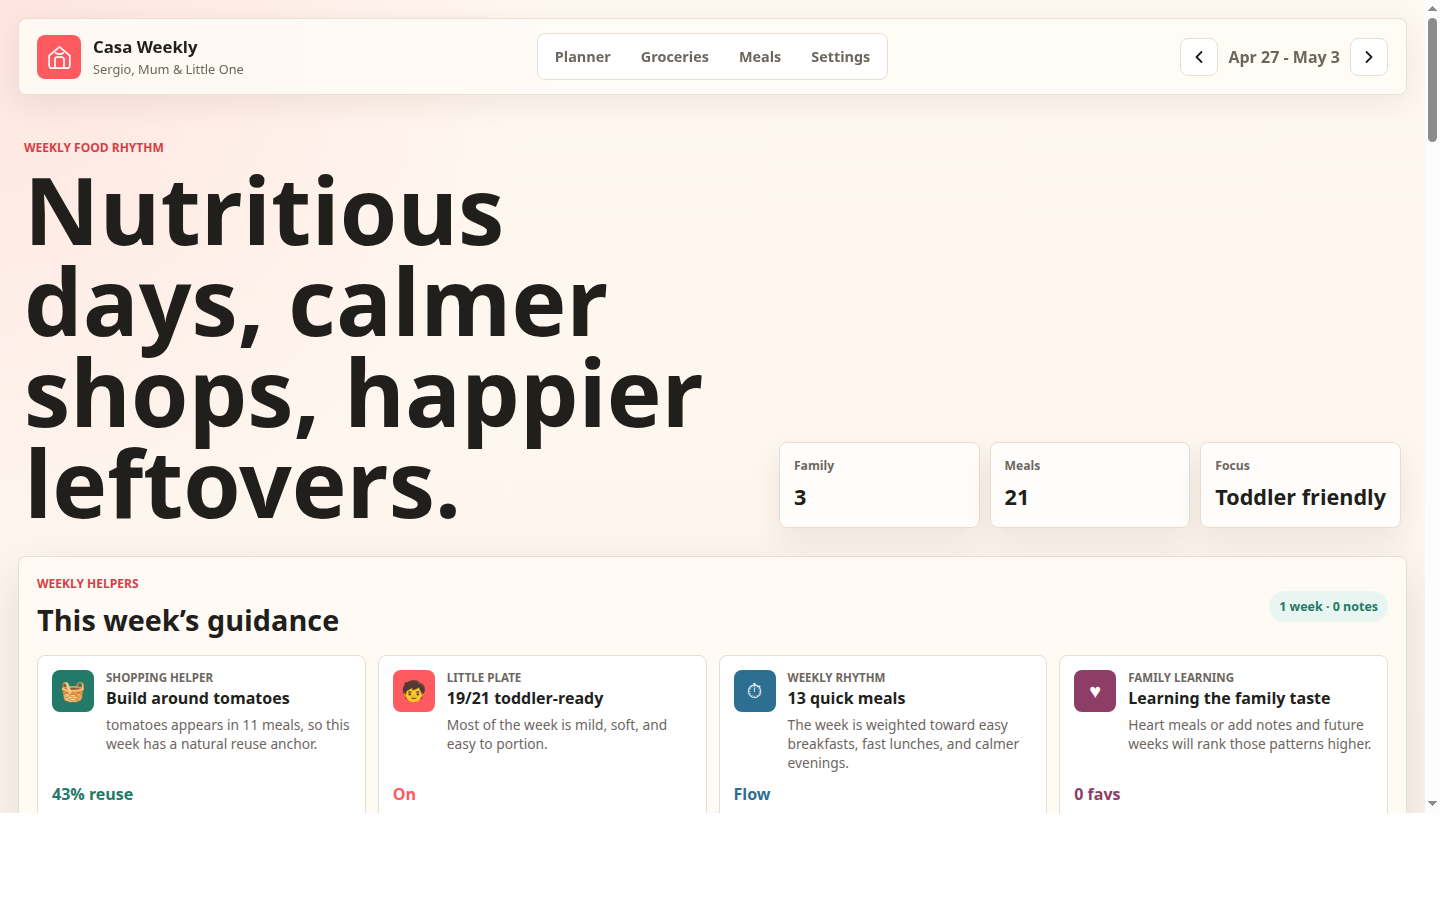
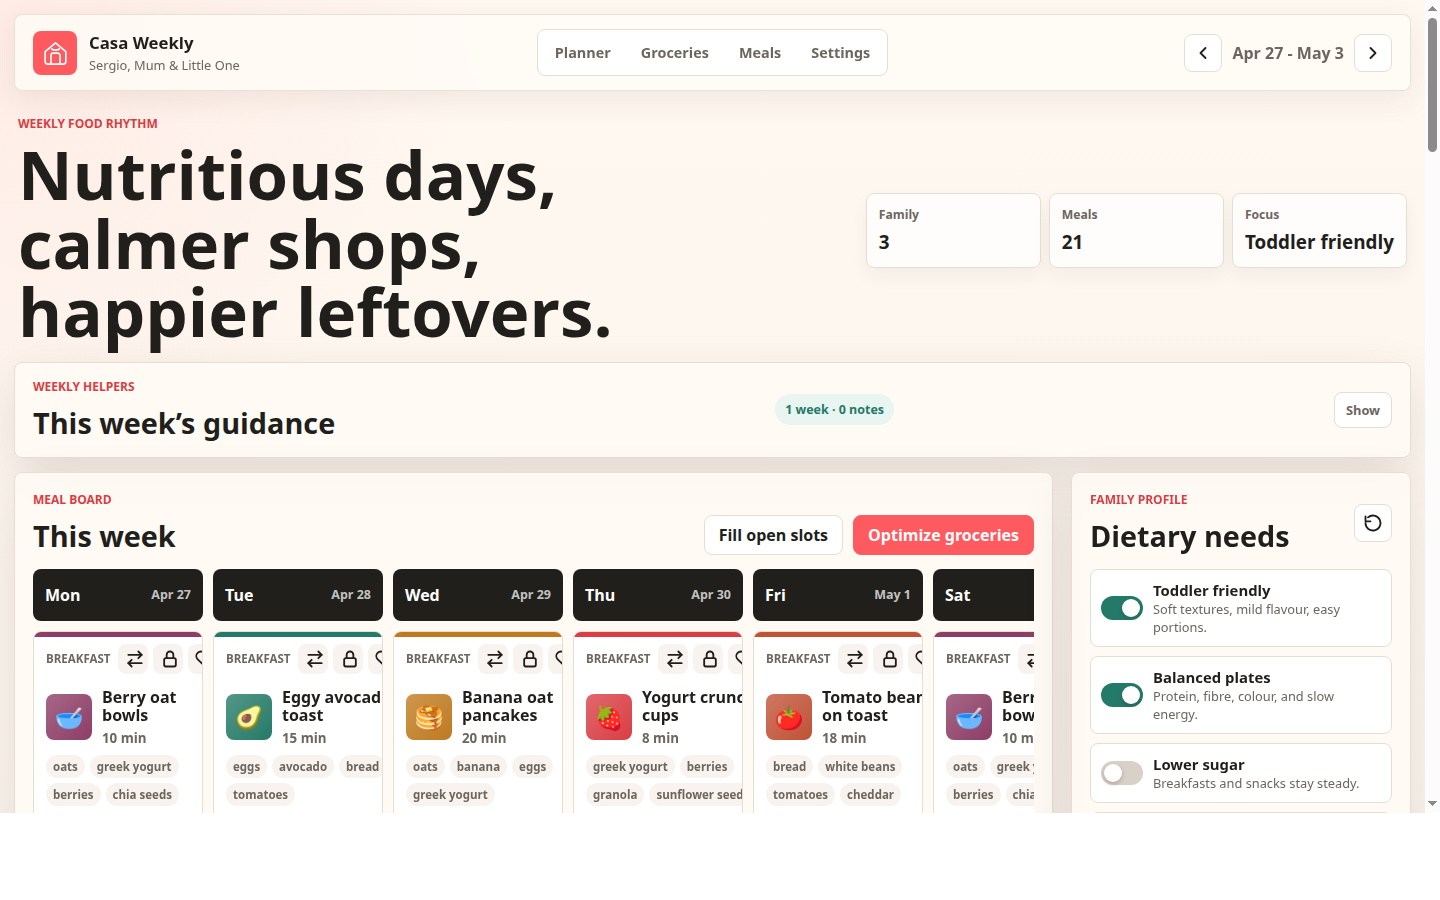
Simplify Casa Weekly UI

diff --git a/styles.css b/styles.css
@@ -28,7 +28,7 @@ html {
 body {
   margin: 0;
   background:
-    radial-gradient(circle at top left, rgba(255, 90, 95, 0.12), transparent 34rem),
+    radial-gradient(circle at top left, rgba(255, 90, 95, 0.08), transparent 30rem),
     linear-gradient(180deg, #fff8f1 0%, #f7efe7 46%, #fffaf5 100%);
   color: var(--ink);
   overflow-x: hidden;
@@ -47,7 +47,7 @@ button {
   width: 100%;
   max-width: 1520px;
   margin: 0 auto;
-  padding: 18px;
+  padding: 14px;
 }
 
 main,
@@ -144,6 +144,8 @@ main,
   color: var(--muted);
   text-decoration: none;
   white-space: nowrap;
+  overflow: hidden;
+  text-overflow: ellipsis;
   padding: 9px 13px;
   border-radius: 6px;
   font-weight: 700;
@@ -202,10 +204,10 @@ main,
 .intro-band {
   display: grid;
   grid-template-columns: minmax(0, 1fr) auto;
-  gap: 24px;
-  align-items: end;
-  min-height: 250px;
-  padding: 44px 6px 28px;
+  gap: 18px;
+  align-items: center;
+  min-height: auto;
+  padding: 24px 4px 16px;
 }
 
 .intro-copy {
@@ -229,10 +231,10 @@ p {
 }
 
 h1 {
-  max-width: 820px;
+  max-width: 720px;
   margin-bottom: 0;
-  font-size: clamp(2.4rem, 7vw, 5.8rem);
-  line-height: 0.98;
+  font-size: clamp(2rem, 5vw, 4.2rem);
+  line-height: 1.02;
   letter-spacing: 0;
   overflow-wrap: break-word;
 }
@@ -251,8 +253,8 @@ h3 {
 .family-signal,
 .grocery-insights {
   display: grid;
-  grid-template-columns: repeat(3, minmax(88px, 1fr));
-  gap: 10px;
+  grid-template-columns: repeat(3, minmax(78px, 1fr));
+  gap: 8px;
 }
 
 .grocery-insights {
@@ -262,12 +264,12 @@ h3 {
 
 .family-signal > div,
 .grocery-insights > div {
-  min-height: 86px;
-  padding: 14px;
+  min-height: 70px;
+  padding: 12px;
   border: 1px solid var(--line);
   border-radius: var(--radius);
   background: rgba(255, 255, 255, 0.72);
-  box-shadow: 0 12px 28px rgba(45, 31, 23, 0.08);
+  box-shadow: 0 8px 18px rgba(45, 31, 23, 0.05);
 }
 
 .signal-label {
@@ -280,13 +282,13 @@ h3 {
 .family-signal strong,
 .grocery-insights strong {
   display: block;
-  margin-top: 8px;
-  font-size: 1.35rem;
+  margin-top: 6px;
+  font-size: 1.18rem;
 }
 
 .dashboard-grid {
   display: grid;
-  grid-template-columns: minmax(280px, 360px) minmax(0, 1fr);
+  grid-template-columns: minmax(0, 1fr) minmax(280px, 340px);
   gap: 18px;
   align-items: start;
 }
@@ -294,8 +296,14 @@ h3 {
 .control-column {
   display: grid;
   gap: 14px;
+  grid-column: 2;
   position: sticky;
   top: 98px;
+}
+
+.planner-column {
+  grid-column: 1;
+  grid-row: 1;
 }
 
 .panel,
@@ -314,14 +322,42 @@ h3 {
 }
 
 .helper-band {
-  padding: 18px;
-  margin-bottom: 18px;
+  padding: 0;
+  margin-bottom: 14px;
+  overflow: hidden;
+}
+
+.helper-band summary {
+  cursor: pointer;
+  list-style: none;
+  margin: 0;
+  padding: 15px 18px;
+}
+
+.helper-band summary::-webkit-details-marker {
+  display: none;
+}
+
+.helper-band summary::after {
+  content: "Show";
+  border: 1px solid var(--line);
+  border-radius: var(--radius);
+  background: white;
+  color: var(--muted);
+  padding: 8px 11px;
+  font-size: 0.8rem;
+  font-weight: 900;
+}
+
+.helper-band[open] summary::after {
+  content: "Hide";
 }
 
 .helper-grid {
   display: grid;
   grid-template-columns: repeat(4, minmax(0, 1fr));
   gap: 12px;
+  padding: 0 18px 18px;
 }
 
 .helper-card {
@@ -331,7 +367,7 @@ h3 {
   gap: 10px 12px;
   width: 100%;
   min-width: 0;
-  min-height: 150px;
+  min-height: 126px;
   padding: 14px;
   border: 1px solid var(--line);
   border-radius: var(--radius);
@@ -389,7 +425,7 @@ h3 {
   align-items: center;
   justify-content: space-between;
   gap: 16px;
-  margin-bottom: 16px;
+  margin-bottom: 14px;
 }
 
 .planner-column,
@@ -1184,7 +1220,14 @@ textarea:focus {
 
   .control-column {
     position: static;
+    grid-column: auto;
+    grid-row: 2;
     grid-template-columns: repeat(3, minmax(0, 1fr));
+  }
+
+  .planner-column {
+    grid-column: auto;
+    grid-row: 1;
   }
 
   .helper-grid,
@@ -1205,7 +1248,7 @@ textarea:focus {
 
   .topnav {
     display: grid;
-    grid-template-columns: repeat(3, minmax(0, 1fr));
+    grid-template-columns: repeat(4, minmax(0, 1fr));
     width: 100%;
     justify-content: initial;
   }
@@ -1220,7 +1263,7 @@ textarea:focus {
   }
 
   .family-signal {
-    grid-template-columns: 1fr;
+    grid-template-columns: repeat(3, minmax(0, 1fr));
   }
 
   .planner-heading {
@@ -1229,12 +1272,23 @@ textarea:focus {
   }
 
   .planner-actions {
+    display: grid;
+    grid-template-columns: 1fr;
     width: 100%;
     justify-content: stretch;
   }
 
   .planner-actions .text-button {
-    flex: 1;
+    width: 100%;
+    min-width: 0;
+  }
+
+  .slot-actions {
+    grid-template-columns: 1fr;
+  }
+
+  .slot-actions .text-button.ghost {
+    display: none;
   }
 
   .helper-grid,
@@ -1246,13 +1300,36 @@ textarea:focus {
 
 @media (max-width: 580px) {
   .topbar {
-    width: calc(100vw - 20px);
+    width: auto;
   }
 
   h1 {
-    max-width: 18ch;
-    font-size: 2.05rem;
-    line-height: 1.08;
+    max-width: 19ch;
+    font-size: 1.62rem;
+    line-height: 1.12;
+  }
+
+  .intro-band {
+    gap: 12px;
+    padding: 18px 6px 12px;
+  }
+
+  .eyebrow {
+    margin-bottom: 6px;
+    font-size: 0.68rem;
+  }
+
+  .family-signal > div {
+    min-height: 58px;
+    padding: 9px;
+  }
+
+  .family-signal {
+    display: none;
+  }
+
+  .family-signal strong {
+    font-size: 1rem;
   }
 
   .brand small {
@@ -1267,6 +1344,10 @@ textarea:focus {
 
   .week-switcher span {
     text-align: center;
+  }
+
+  .helper-band {
+    display: none;
   }
 
   .helper-band .section-heading {
@@ -1284,12 +1365,12 @@ textarea:focus {
 
   .topnav a {
     min-width: 0;
-    padding-inline: 8px;
+    padding: 8px 6px;
     font-size: 0.84rem;
   }
 
   .topnav {
-    grid-template-columns: 1fr;
+    grid-template-columns: repeat(2, minmax(0, 1fr));
   }
 
   .topnav a:last-child {

diff --git a/index.html b/index.html
@@ -67,16 +67,16 @@
           </div>
         </section>
 
-        <section class="helper-band" aria-labelledby="helperTitle">
-          <div class="section-heading">
+        <details class="helper-band" aria-labelledby="helperTitle">
+          <summary class="section-heading">
             <div>
               <p class="eyebrow">Weekly helpers</p>
               <h2 id="helperTitle">This week’s guidance</h2>
             </div>
             <span class="score-pill" id="memoryScore">Learning ready</span>
-          </div>
+          </summary>
           <div class="helper-grid" id="helperCards"></div>
-        </section>
+        </details>
 
         <section class="dashboard-grid">
           <aside class="control-column" aria-label="Planning controls">